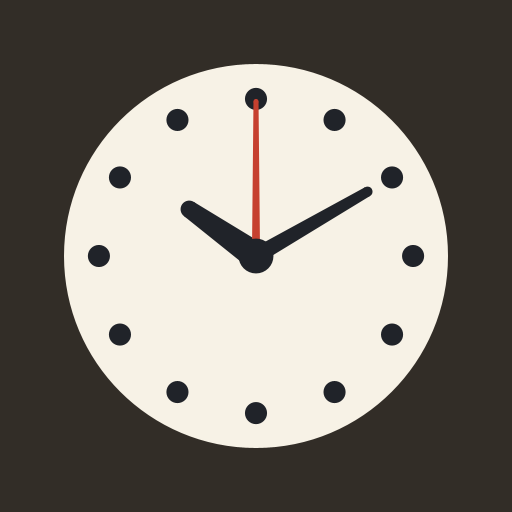
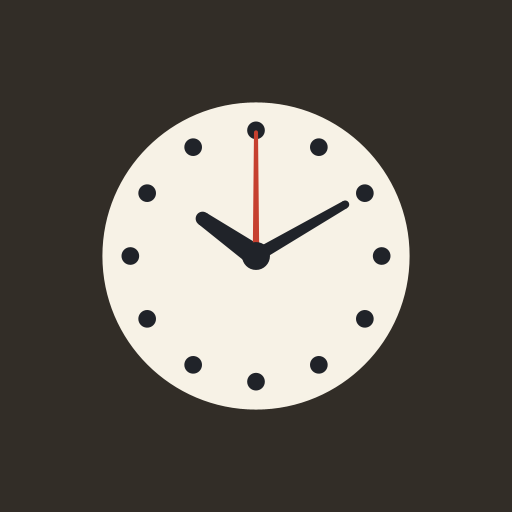
The smaller mark, tap-safe hands, and the ticking second hand

Changed region(s): [[0.125, 0.125, 0.875, 0.875], [0.4688, 0.3125, 0.5312, 0.4062]]

diff --git a/app/src/main/java/io/github/muntasimulhaque/readoclock/ui/ClockScreen.kt b/app/src/main/java/io/github/muntasimulhaque/readoclock/ui/ClockScreen.kt
@@ -3,6 +3,7 @@ package io.github.muntasimulhaque.readoclock.ui
 import androidx.compose.foundation.background
 import androidx.compose.foundation.gestures.awaitEachGesture
 import androidx.compose.foundation.gestures.awaitFirstDown
+import androidx.compose.foundation.gestures.awaitTouchSlopOrCancellation
 import androidx.compose.foundation.gestures.drag
 import androidx.compose.foundation.layout.BoxWithConstraints
 import androidx.compose.foundation.layout.fillMaxSize
@@ -12,6 +13,7 @@ import androidx.compose.runtime.getValue
 import androidx.compose.runtime.mutableStateOf
 import androidx.compose.runtime.remember
 import androidx.compose.runtime.rememberUpdatedState
+import androidx.compose.runtime.snapshotFlow
 import androidx.compose.ui.Modifier
 import androidx.compose.ui.geometry.Offset
 import androidx.compose.ui.input.pointer.pointerInput
@@ -31,6 +33,7 @@ import io.github.muntasimulhaque.readoclock.core.ClockTime
 import io.github.muntasimulhaque.readoclock.core.HandPick
 import io.github.muntasimulhaque.readoclock.core.SpokenTime
 import kotlinx.coroutines.delay
+import kotlin.math.floor
 import kotlin.math.round
 
 /**
@@ -63,12 +66,28 @@ fun ClockScreen(
     onMinuteDrag: (Double) -> Unit,
     onHourDrag: (Double) -> Unit,
     onMoveBy: (Double) -> Unit,
+    onTick: () -> Unit,
 ) {
     val frame = remember { mutableStateOf(frameOf(reading())) }
     // The frame loop lives for the whole composition, so it must read the
     // latest reading function rather than the one it was born with.
     val currentReading by rememberUpdatedState(reading)
+    val currentTick by rememberUpdatedState(onTick)
     val refresh = { frame.value = frameOf(currentReading()) }
+    val dragging = remember { mutableStateOf(false) }
+
+    // The tick is the movement's, not the finger's: one click when the
+    // running second hand steps forward a whole second. A drag turns the
+    // gear train by hand and stays silent, and so does a jump (resume, cold
+    // start, a TalkBack move), which is not a quartz step.
+    LaunchedEffect(Unit) {
+        var lastStep = floor(frame.value.seconds).toLong()
+        snapshotFlow { frame.value.seconds }.collect { seconds ->
+            val step = floor(seconds).toLong()
+            if (!dragging.value && step == lastStep + 1) currentTick()
+            lastStep = step
+        }
+    }
 
     // A wake at every second boundary, and a short burst of frames through
     // the quartz bounce; between ticks the app sleeps. Dragging refreshes
@@ -131,10 +150,17 @@ fun ClockScreen(
                             hourAngle = ClockTime.hourAngleDegrees(currentReading()),
                             minuteAngle = ClockTime.minuteAngleDegrees(currentReading()),
                         )
-                        drag(down.id) { change ->
+                        // A poke is not a drag: the hand only moves once the
+                        // finger has crossed touch slop, so a tap, however
+                        // jittery, never jumps a hand across the dial. The
+                        // hand was picked at the down point.
+                        val dragStart = awaitTouchSlopOrCancellation(down.id) { change, _ ->
+                            change.consume()
+                        } ?: return@awaitEachGesture
+                        fun moveHand(position: Offset) {
                             val angle = ClockTime.angleDegrees(
-                                x = change.position.x.toDouble(),
-                                y = change.position.y.toDouble(),
+                                x = position.x.toDouble(),
+                                y = position.y.toDouble(),
                                 centerX = center.x.toDouble(),
                                 centerY = center.y.toDouble(),
                             )
@@ -143,7 +169,16 @@ fun ClockScreen(
                                 ClockHand.Hour -> onHourDrag(angle)
                             }
                             refresh()
-                            change.consume()
+                        }
+                        dragging.value = true
+                        try {
+                            moveHand(dragStart.position)
+                            drag(down.id) { change ->
+                                moveHand(change.position)
+                                change.consume()
+                            }
+                        } finally {
+                            dragging.value = false
                         }
                     }
                 },

diff --git a/tools/src/main/kotlin/io/github/muntasimulhaque/readoclock/tools/MakeTick.kt b/tools/src/main/kotlin/io/github/muntasimulhaque/readoclock/tools/MakeTick.kt
@@ -1,0 +1,111 @@
+package io.github.muntasimulhaque.readoclock.tools
+
+import java.io.File
+import java.util.Random
+import kotlin.math.PI
+import kotlin.math.abs
+
+/**
+ * Generates the quartz tick: the little click the second hand makes as it
+ * steps. Synthesized here so the app carries no third-party audio and the
+ * committed WAV needs no license note. Every byte is arithmetic, so the
+ * output is identical on every machine and `--check` can ban drift.
+ */
+fun main(args: Array<String>) {
+    val root = File(args.firstOrNull() ?: ".")
+    val out = File(root, "app/src/main/res/raw/tick.wav")
+    val fresh = tickWav()
+
+    if (args.contains("--check")) {
+        val committed = if (out.exists()) out.readBytes() else null
+        if (committed == null || !committed.contentEquals(fresh)) {
+            println("tick drift: ${out.relativeTo(root)}")
+            println("regenerate with :tools:makeTick")
+            kotlin.system.exitProcess(1)
+        }
+        println("tick matches a fresh regeneration")
+        return
+    }
+
+    out.parentFile.mkdirs()
+    out.writeBytes(fresh)
+    println("tick written: ${out.relativeTo(root)} (${fresh.size} bytes)")
+}
+
+// 22 kHz is plenty: the click lives under 6 kHz and the WAV stays tiny.
+private const val SampleRate = 22050
+private const val DurationSeconds = 0.032
+private const val PeakAmplitude = 0.45
+private const val TwoPi = 2.0 * PI
+
+private fun tickWav(): ByteArray {
+    val raw = DoubleArray((SampleRate * DurationSeconds).toInt())
+    val noise = Random(42L)
+    for (i in raw.indices) {
+        raw[i] = tickSample(i.toDouble() / SampleRate, noise.nextDouble() * 2.0 - 1.0)
+    }
+    val peak = raw.maxOf { abs(it) }
+    val samples = ShortArray(raw.size) {
+        (raw[it] / peak * PeakAmplitude * Short.MAX_VALUE).toInt().toShort()
+    }
+    return wavBytes(samples)
+}
+
+/**
+ * A tick is an impact, not a tone: a half millisecond noise snap, a few
+ * inharmonic plastic partials that ring for a few milliseconds, and a low
+ * soft body underneath, all gone inside the 32 ms clip. StrictMath, because
+ * the byte-exact pin must hold on every JVM and platform.
+ */
+private fun tickSample(t: Double, noise: Double): Double {
+    val snap = noise * StrictMath.exp(-t / 0.0005)
+    val ring = (
+        StrictMath.sin(TwoPi * 1800.0 * t) * 0.55 +
+            StrictMath.sin(TwoPi * 2600.0 * t) * 0.40 +
+            StrictMath.sin(TwoPi * 3800.0 * t) * 0.28 +
+            StrictMath.sin(TwoPi * 5200.0 * t) * 0.16
+        ) * StrictMath.exp(-t / 0.003)
+    val body = StrictMath.sin(TwoPi * 420.0 * t) * 0.22 * StrictMath.exp(-t / 0.010)
+    return snap + ring + body
+}
+
+/** A 16 bit mono PCM WAV, written by hand so no encoder can vary it. */
+private fun wavBytes(samples: ShortArray): ByteArray {
+    val dataBytes = samples.size * 2
+    val out = ByteArray(44 + dataBytes)
+    ascii(out, 0, "RIFF")
+    putInt(out, 4, 36 + dataBytes)
+    ascii(out, 8, "WAVE")
+    ascii(out, 12, "fmt ")
+    putInt(out, 16, 16)
+    putShort(out, 20, 1)
+    putShort(out, 22, 1)
+    putInt(out, 24, SampleRate)
+    putInt(out, 28, SampleRate * 2)
+    putShort(out, 32, 2)
+    putShort(out, 34, 16)
+    ascii(out, 36, "data")
+    putInt(out, 40, dataBytes)
+    for (i in samples.indices) {
+        putShort(out, 44 + i * 2, samples[i].toInt())
+    }
+    return out
+}
+
+private fun ascii(out: ByteArray, offset: Int, text: String) {
+    for (i in text.indices) {
+        out[offset + i] = text[i].code.toByte()
+    }
+}
+
+private fun putInt(out: ByteArray, offset: Int, value: Int) {
+    out[offset] = (value and 0xFF).toByte()
+    out[offset + 1] = (value ushr 8 and 0xFF).toByte()
+    out[offset + 2] = (value ushr 16 and 0xFF).toByte()
+    out[offset + 3] = (value ushr 24 and 0xFF).toByte()
+}
+
+private fun putShort(out: ByteArray, offset: Int, value: Int) {
+    out[offset] = (value and 0xFF).toByte()
+    out[offset + 1] = (value ushr 8 and 0xFF).toByte()
+}

diff --git a/app/src/main/java/io/github/muntasimulhaque/readoclock/host/TickPlayer.kt b/app/src/main/java/io/github/muntasimulhaque/readoclock/host/TickPlayer.kt
@@ -1,0 +1,69 @@
+package io.github.muntasimulhaque.readoclock.host
+
+import android.content.Context
+import android.media.AudioAttributes
+import android.media.SoundPool
+import io.github.muntasimulhaque.readoclock.R
+
+// The sample peaks at 0.45; 0.7 on top of that sits a tick under the room
+// instead of over it.
+private const val TickVolume = 0.7f
+
+/**
+ * The quartz tick: one soft click for each step of the second hand.
+ *
+ * SoundPool keeps the little sample decoded in memory, so a step can sound
+ * the instant the hand moves. The player is built with the screen and
+ * released with it, so nothing ticks in the background. A click needs no
+ * permission and no audio focus.
+ */
+class TickPlayer(context: Context) {
+
+    private val pool = SoundPool.Builder()
+        // One stream: a new step replaces an old one instead of stacking.
+        .setMaxStreams(1)
+        .setAudioAttributes(
+            AudioAttributes.Builder()
+                .setUsage(AudioAttributes.USAGE_MEDIA)
+                .setContentType(AudioAttributes.CONTENT_TYPE_SONIFICATION)
+                .build(),
+        )
+        .build()
+
+    private val sampleId: Int
+    private var ready = false
+    private var pending = false
+
+    init {
+        pool.setOnLoadCompleteListener { _, _, status ->
+            ready = status == 0
+            if (ready && pending) {
+                pending = false
+                play()
+            }
+        }
+        sampleId = pool.load(context.applicationContext, R.raw.tick, 1)
+    }
+
+    /**
+     * Sounds one step. A step that lands while the sample is still decoding
+     * is kept and sounded on load, so the first tick is never lost.
+     */
+    fun tick() {
+        if (ready) {
+            play()
+        } else {
+            pending = true
+        }
+    }
+
+    /** Frees the sample; the screen calls this when it is gone for good. */
+    fun release() {
+        pending = false
+        pool.release()
+    }
+
+    private fun play() {
+        pool.play(sampleId, TickVolume, TickVolume, 1, 0, 1f)
+    }
+}

diff --git a/tools/src/main/kotlin/io/github/muntasimulhaque/readoclock/tools/IconMark.kt b/tools/src/main/kotlin/io/github/muntasimulhaque/readoclock/tools/IconMark.kt
@@ -15,10 +15,10 @@ import kotlin.math.sin
  * paths only, no gradients, no strokes and no Area booleans, because the icon
  * bytes are pinned across machines and rasterizers (Puzzlet's lesson).
  *
- * The mark is sized in fractions of the icon canvas: the adaptive layers keep
- * a full-bleed disc inside the mask, and the legacy bitmaps carry their own
- * background, rounded square or circle, so pre-26 launchers see a finished
- * icon.
+ * The mark is sized in fractions of the icon canvas: the adaptive layers
+ * center the dial inside the mask with air around it, and the legacy bitmaps
+ * carry their own background, rounded square or circle, so pre-26 launchers
+ * see a finished icon.
  */
 object IconMark {
 
@@ -26,6 +26,12 @@ object IconMark {
 
     private const val Canvas = 108.0
     private const val LegacyCanvas = 88.0
+
+    // One knob for how large the clock sits in the canvas: every dimension
+    // below scales with it, so the whole mark shrinks or grows together and
+    // the dial keeps the proportions the app draws. At 1.0 the dial filled
+    // the adaptive safe zone edge to edge; the owner wanted air around it.
+    private const val MarkScale = 0.8
 
     private const val DialRadius = 33.0
     private const val RingThickness = 4.4
@@ -63,7 +69,7 @@ object IconMark {
             Mode.Foreground, Mode.Monochrome -> Unit
         }
         val legacyCanvas = mode == Mode.LegacySquare || mode == Mode.LegacyRound || mode == Mode.FullBleed
-        val scale = size / (if (legacyCanvas) LegacyCanvas else Canvas)
+        val scale = size / (if (legacyCanvas) LegacyCanvas else Canvas) * MarkScale
         when (mode) {
             Mode.Monochrome -> drawRing(g, center, scale)
             else -> {

diff --git a/app/src/main/java/io/github/muntasimulhaque/readoclock/MainActivity.kt b/app/src/main/java/io/github/muntasimulhaque/readoclock/MainActivity.kt
@@ -9,6 +9,7 @@ import androidx.core.view.WindowInsetsCompat
 import androidx.core.view.WindowInsetsControllerCompat
 import androidx.lifecycle.ViewModelProvider
 import io.github.muntasimulhaque.readoclock.host.ClockHost
+import io.github.muntasimulhaque.readoclock.host.TickPlayer
 import io.github.muntasimulhaque.readoclock.ui.ClockScreen
 
 class MainActivity : ComponentActivity() {
@@ -16,6 +17,8 @@ class MainActivity : ComponentActivity() {
     private val host: ClockHost by lazy {
         ViewModelProvider(this)[ClockHost::class.java]
     }
+
+    private val ticker by lazy { TickPlayer(this) }
 
     override fun onCreate(savedInstanceState: Bundle?) {
         super.onCreate(savedInstanceState)
@@ -29,6 +32,7 @@ class MainActivity : ComponentActivity() {
                 onMinuteDrag = host::setFromMinuteAngle,
                 onHourDrag = host::setFromHourAngle,
                 onMoveBy = host::moveBy,
+                onTick = ticker::tick,
             )
         }
     }
@@ -36,6 +40,11 @@ class MainActivity : ComponentActivity() {
     override fun onStart() {
         super.onStart()
         keepBarsHidden()
+    }
+
+    override fun onDestroy() {
+        ticker.release()
+        super.onDestroy()
     }
 
     override fun onWindowFocusChanged(hasFocus: Boolean) {

diff --git a/core/src/main/kotlin/io/github/muntasimulhaque/readoclock/core/SpokenTime.kt b/core/src/main/kotlin/io/github/muntasimulhaque/readoclock/core/SpokenTime.kt
@@ -3,11 +3,11 @@ package io.github.muntasimulhaque.readoclock.core
 import kotlin.math.floor
 
 /**
- * The time in the words a person says it, for TalkBack. The clock is silent,
- * so this is the only place the app ever speaks, and it speaks the way a
- * parent teaches: "half past three", "twenty five minutes past three",
- * "quarter to four". Seconds are not spoken; they are not part of reading a
- * clock.
+ * The time in the words a person says it, for TalkBack. The tick is the
+ * clock's only other sound, so this is the one place the app speaks words,
+ * and it speaks the way a parent teaches: "half past three", "twenty five
+ * minutes past three", "quarter to four". Seconds are not spoken; they are
+ * not part of reading a clock.
  */
 object SpokenTime {
     private val ones = listOf(

diff --git a/app/src/androidTest/java/io/github/muntasimulhaque/readoclock/ScreenshotTest.kt b/app/src/androidTest/java/io/github/muntasimulhaque/readoclock/ScreenshotTest.kt
@@ -133,6 +133,7 @@ class ScreenshotTest {
                     onMinuteDrag = {},
                     onHourDrag = {},
                     onMoveBy = {},
+                    onTick = {},
                 )
             }
         }
